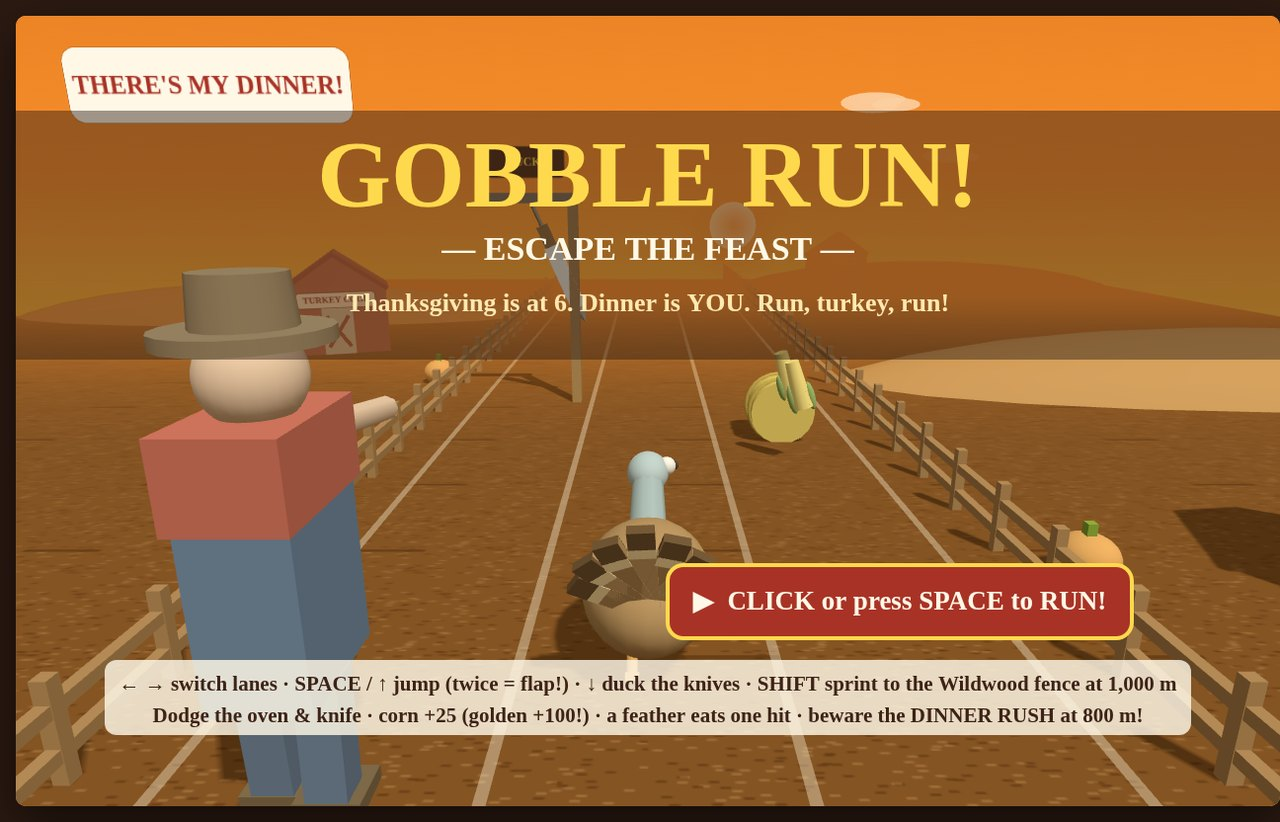
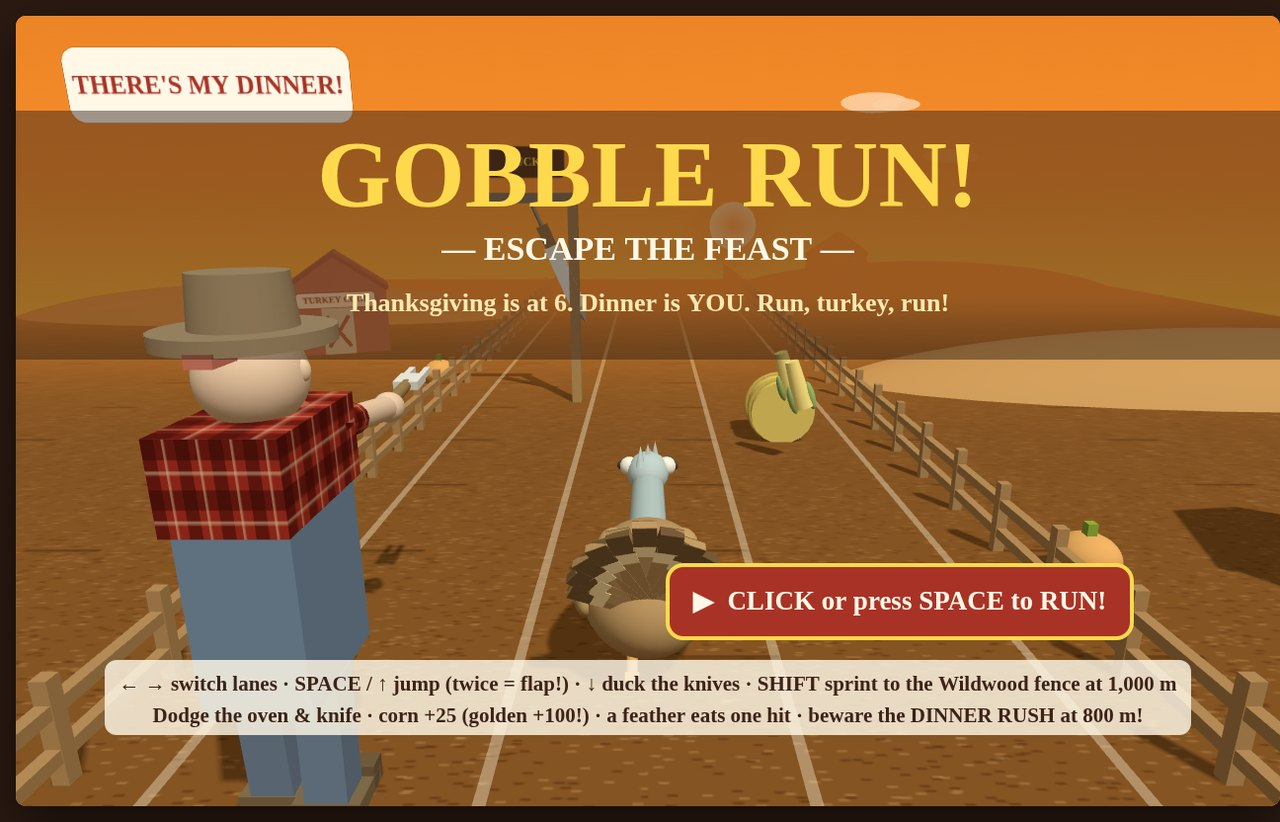
Gobble Run! update

diff --git a/game/src/actors.js b/game/src/actors.js
@@ -1,25 +1,30 @@
-// Gobble Run! 3D — the actors: Tom the turkey (banded tail fan, wattle,
-// flapping wing, shield ring) and Farmer Hank (overalls, straw hat,
-// reaching arms, speech signs), each modelled from primitives.
+// Gobble Run! 3D — the actors: Tom the turkey (eleven-feather banded
+// tail fan, snood and wattle, two flapping wings, toed feet) and Farmer
+// Hank (plaid shirt, overall straps and buttons, beard, and a carving
+// fork in his reaching hand), each modelled from primitives at a
+// resolution that holds up when the runner camera sits close behind.
 
-import { ball, box, mat, textSign } from './models.js';
+import { ball, box, mat, plaidTexture, textSign } from './models.js';
 
 export function buildTurkey() {
   const t = new THREE.Group();
   const body = ball(46, 0x8a5a2b, 0, 58, 0, 1.25, 0.85, 0.92);
   t.add(body);
+  t.add(ball(33, 0x77511f, -16, 52, 0, 1.05, 0.9, 0.95)); // rump feather mass
   t.add(ball(30, 0x9c6b30, 26, 50, 0, 1, 0.8, 0.8)); // breast
-  // tail fan — seven banded feathers fanned behind him; from the
+  t.add(ball(17, 0x9c6b30, 2, 84, 22, 1.1, 0.55, 0.6)); // shoulder feather tufts
+  t.add(ball(17, 0x9c6b30, 2, 84, -22, 1.1, 0.55, 0.6));
+  // tail fan — eleven banded feathers fanned behind him; from the
   // runner camera this is the hero of the whole show
   const fan = new THREE.Group();
   fan.position.set(-44, 66, 0);
-  for (let i = 0; i < 7; i++) {
-    const a = -1.05 + i * 0.33;
-    const len = 66 - Math.abs(i - 3) * 6;
+  for (let i = 0; i < 11; i++) {
+    const a = -1.15 + i * 0.225;
+    const len = 70 - Math.abs(i - 5) * 4.5;
     const feather = new THREE.Group();
-    feather.add(box(5, len, 15, i % 2 ? 0x8a5a2b : 0x6e4520, 0, len / 2, 0));
-    feather.add(box(6, 13, 15, 0x2e1c0d, 0, len - 6, 0));
-    feather.add(box(6, 7, 15, 0xe8c07a, 0, len - 16, 0));
+    feather.add(box(5, len, 13, i % 2 ? 0x8a5a2b : 0x6e4520, 0, len / 2, 0));
+    feather.add(box(6, 14, 13, 0x2e1c0d, 0, len - 7, 0));
+    feather.add(box(6, 8, 13, 0xe8c07a, 0, len - 18, 0));
     feather.rotation.x = a; // fan spreads sideways, flat to the camera behind
     fan.add(feather);
   }
@@ -27,34 +32,51 @@ export function buildTurkey() {
   t.add(fan);
   const wing = ball(25, 0x7c5226, -6, 58, 38, 1.05, 0.5, 0.35);
   t.add(wing);
-  const neck = new THREE.Mesh(new THREE.CylinderGeometry(10, 13, 44, 10), mat(0x7ea6b8));
+  const wingL = ball(25, 0x7c5226, -6, 58, -38, 1.05, 0.5, 0.35);
+  t.add(wingL);
+  const neck = new THREE.Mesh(new THREE.CylinderGeometry(10, 13, 44, 14), mat(0x7ea6b8));
   neck.position.set(44, 96, 0); neck.rotation.z = -0.5; neck.castShadow = true;
   t.add(neck);
   t.add(ball(16, 0x8fb4c7, 60, 112, 0, 1.1, 0.9, 0.9));
-  const beak = new THREE.Mesh(new THREE.ConeGeometry(8, 26, 10), mat(0xf2a541));
+  for (let c = 0; c < 3; c++) { // crest feathers on top of his head
+    const crest = new THREE.Mesh(new THREE.ConeGeometry(3.6, 15, 8), mat(0x8fb4c7));
+    crest.position.set(52 + c * 6, 126, -5 + c * 5);
+    crest.rotation.z = -0.35 + c * 0.18;
+    t.add(crest);
+  }
+  const beak = new THREE.Mesh(new THREE.ConeGeometry(8, 26, 16), mat(0xf2a541));
   beak.position.set(82, 110, 0); beak.rotation.z = -Math.PI / 2; beak.castShadow = true;
   t.add(beak);
+  t.add(ball(5, 0xd63c2f, 76, 116, 0, 0.75, 1.7, 0.75)); // snood over the beak
   t.add(ball(7, 0xd63c2f, 66, 94, 0, 0.8, 1.5, 0.8)); // wattle
-  t.add(ball(6.5, 0xffffff, 62, 116, 13));
-  t.add(ball(3.4, 0x1c1410, 64, 116, 18));
+  for (const side of [1, -1]) { // an eye on each side of the head
+    t.add(ball(6.5, 0xffffff, 62, 116, 13 * side));
+    t.add(ball(3.4, 0x1c1410, 64, 116, 18 * side));
+  }
   const legs = [];
   for (const side of [1, -1]) {
     const leg = new THREE.Group();
-    const shin = new THREE.Mesh(new THREE.CylinderGeometry(3.6, 3.6, 38, 8), mat(0xe07b2a));
+    leg.add(ball(11, 0x8a5a2b, 0, -2, 0, 1, 0.8, 0.8)); // thigh
+    const shin = new THREE.Mesh(new THREE.CylinderGeometry(3.6, 3.6, 38, 10), mat(0xe07b2a));
     shin.position.y = -19;
     leg.add(shin);
     leg.add(box(20, 5, 9, 0xe07b2a, 5, -38, 0));
+    for (const toe of [-1, 0, 1]) { // three toes a foot
+      const toeM = box(11, 4, 5, 0xe07b2a, 15, -39, toe * 6);
+      toeM.rotation.y = toe * 0.35;
+      leg.add(toeM);
+    }
     leg.position.set(-4 * side, 34, 10 * side);
     legs.push(leg);
     t.add(leg);
   }
   const ring = new THREE.Mesh(
-    new THREE.TorusGeometry(96, 4, 10, 40),
+    new THREE.TorusGeometry(96, 4, 12, 48),
     new THREE.MeshBasicMaterial({ color: 0xaee6ff, transparent: true, opacity: 0.75 }),
   );
   ring.position.set(0, 62, 0);
   t.add(ring);
-  return { group: t, wing, legs, ring, fan };
+  return { group: t, wing, wingL, legs, ring, fan };
 }
 
 export function buildFarmer() {
@@ -64,29 +86,61 @@ export function buildFarmer() {
     const leg = new THREE.Group();
     leg.add(box(17, 62, 19, 0x2a3f66, 0, -31, 0));
     leg.add(box(26, 10, 30, 0x3a2a18, 4, -64, 0));
+    leg.add(box(10, 12, 30, 0x2c1e10, 14, -60, 0)); // boot toe cap
     leg.position.set(0, 66, 13 * side);
     legs.push(leg);
     f.add(leg);
   }
   f.add(box(62, 80, 44, 0x2f4a7d, 2, 104, 0)); // overalls
-  f.add(box(70, 38, 48, 0xa93226, 2, 162, 0)); // plaid shirt block
+  for (const side of [1, -1]) { // overall straps over the shoulders
+    f.add(box(11, 42, 6, 0x2f4a7d, 16, 152, 13 * side));
+    f.add(ball(3.6, 0xf2c14e, 21, 134, 13 * side)); // brass button
+  }
+  const shirt = new THREE.Mesh(
+    new THREE.BoxGeometry(70, 38, 48),
+    new THREE.MeshLambertMaterial({ map: plaidTexture() }),
+  );
+  shirt.position.set(2, 162, 0);
+  shirt.castShadow = true;
+  f.add(shirt); // plaid shirt block
   const arms = [];
   for (const side of [1, -1]) {
     const arm = new THREE.Group();
-    const limb = new THREE.Mesh(new THREE.CylinderGeometry(6.5, 6.5, 74, 8), mat(0xe8b08a));
-    limb.position.y = -37;
+    const sleeve = new THREE.Mesh(new THREE.CylinderGeometry(8.5, 7.5, 30, 12),
+      new THREE.MeshLambertMaterial({ map: plaidTexture() }));
+    sleeve.position.y = -15;
+    arm.add(sleeve);
+    const limb = new THREE.Mesh(new THREE.CylinderGeometry(6.5, 6.5, 48, 12), mat(0xe8b08a));
+    limb.position.y = -52;
     arm.add(limb);
+    arm.add(ball(9, 0xe8b08a, 0, -78, 0, 0.9, 1.1, 0.9)); // hand
+    if (side === 1) { // the carving fork, prongs toward the turkey
+      const fork = new THREE.Group();
+      const handle = new THREE.Mesh(new THREE.CylinderGeometry(3.2, 3.2, 34, 10), mat(0x5d3c1a));
+      handle.position.y = -14;
+      fork.add(handle);
+      fork.add(box(5, 16, 14, 0xd7dee6, 0, -36, 0));
+      for (const pz of [-4.5, 4.5]) fork.add(box(3.4, 17, 3.4, 0xd7dee6, 0, -50, pz));
+      fork.position.set(2, -80, 0);
+      fork.rotation.z = 0.25;
+      arm.add(fork);
+    }
     arm.position.set(26, 168, 16 * side);
     arm.rotation.z = 1.45; // reaching forward toward the turkey
     arms.push(arm);
     f.add(arm);
   }
   f.add(ball(21, 0xe8b08a, 2, 196, 0));
+  f.add(ball(6, 0xe0a37e, 21, 194, 0, 0.9, 0.8, 0.9)); // nose
+  for (const side of [1, -1]) f.add(ball(5, 0xe8b08a, 2, 198, 20 * side, 0.6, 0.9, 0.6)); // ears
   f.add(ball(13, 0x8a2f23, 10, 182, 0, 1, 0.75, 1)); // beard
-  const brim = new THREE.Mesh(new THREE.CylinderGeometry(33, 33, 6, 18), mat(0xe8c07a));
+  f.add(ball(9, 0x7e2118, 14, 176, 9, 0.9, 0.8, 0.9)); // beard tufts
+  f.add(ball(9, 0x7e2118, 14, 176, -9, 0.9, 0.8, 0.9));
+  const brim = new THREE.Mesh(new THREE.CylinderGeometry(33, 33, 6, 26), mat(0xe8c07a));
   brim.position.set(2, 212, 0); brim.castShadow = true;
   f.add(brim);
-  const top = new THREE.Mesh(new THREE.CylinderGeometry(18, 20, 24, 14), mat(0xe8c07a));
+  f.add(box(68, 5, 10, 0xb03a2e, 2, 208, 0)); // hat band
+  const top = new THREE.Mesh(new THREE.CylinderGeometry(18, 20, 24, 20), mat(0xe8c07a));
   top.position.set(2, 224, 0); top.castShadow = true;
   f.add(top);
   f.add(ball(3, 0x1c1410, 16, 198, 12));

diff --git a/game/src/models.js b/game/src/models.js
@@ -14,7 +14,7 @@ export function box(w, h, d, color, x = 0, y = 0, z = 0) {
 }
 
 export function ball(r, color, x = 0, y = 0, z = 0, sx = 1, sy = 1, sz = 1) {
-  const m = new THREE.Mesh(new THREE.SphereGeometry(r, 22, 16), mat(color));
+  const m = new THREE.Mesh(new THREE.SphereGeometry(r, 34, 24), mat(color));
   m.position.set(x, y, z);
   m.scale.set(sx, sy, sz);
   m.castShadow = true;
@@ -78,6 +78,24 @@ export function gradientTexture(stops, w = 64, h = 512) {
   g.fillStyle = grad; g.fillRect(0, 0, w, h);
   const tex = new THREE.CanvasTexture(cv);
   tex.encoding = THREE.sRGBEncoding;
+  return tex;
+}
+
+export function plaidTexture() {
+  const cv = document.createElement('canvas');
+  cv.width = cv.height = 128;
+  const g = cv.getContext('2d');
+  g.fillStyle = '#a93226'; g.fillRect(0, 0, 128, 128);
+  g.fillStyle = 'rgba(70,16,12,0.55)';
+  g.fillRect(0, 0, 26, 128); g.fillRect(64, 0, 26, 128);
+  g.fillRect(0, 0, 128, 26); g.fillRect(0, 64, 128, 26);
+  g.fillStyle = 'rgba(247,232,201,0.5)';
+  g.fillRect(40, 0, 5, 128); g.fillRect(104, 0, 5, 128);
+  g.fillRect(0, 40, 128, 5); g.fillRect(0, 104, 128, 5);
+  const tex = new THREE.CanvasTexture(cv);
+  tex.encoding = THREE.sRGBEncoding;
+  tex.wrapS = tex.wrapT = THREE.RepeatWrapping;
+  tex.repeat.set(2, 1);
   return tex;
 }
 

diff --git a/game/src/render3d.js b/game/src/render3d.js
@@ -265,8 +265,10 @@ export function createView3D(canvas) {
       leg.visible = !t.ducking;
       leg.rotation.z = -swing * (i === 0 ? 1 : -1) * 0.8;
     });
-    turkey.wing.rotation.x = t.jumpsUsed === 2 && airborne
+    const flap = t.jumpsUsed === 2 && airborne
       ? Math.sin(run.time * 34) * 0.8 : 0.15 + Math.sin(t.runCycle * 2.4) * 0.07;
+    turkey.wing.rotation.x = flap;
+    if (turkey.wingL) turkey.wingL.rotation.x = -flap;
     turkey.fan.rotation.z = 0.45 + Math.sin(t.runCycle) * 0.05;
     turkey.ring.visible = !!run.shield;
     turkey.ring.rotation.y = Math.sin(run.time * 2.2) * 0.35;
